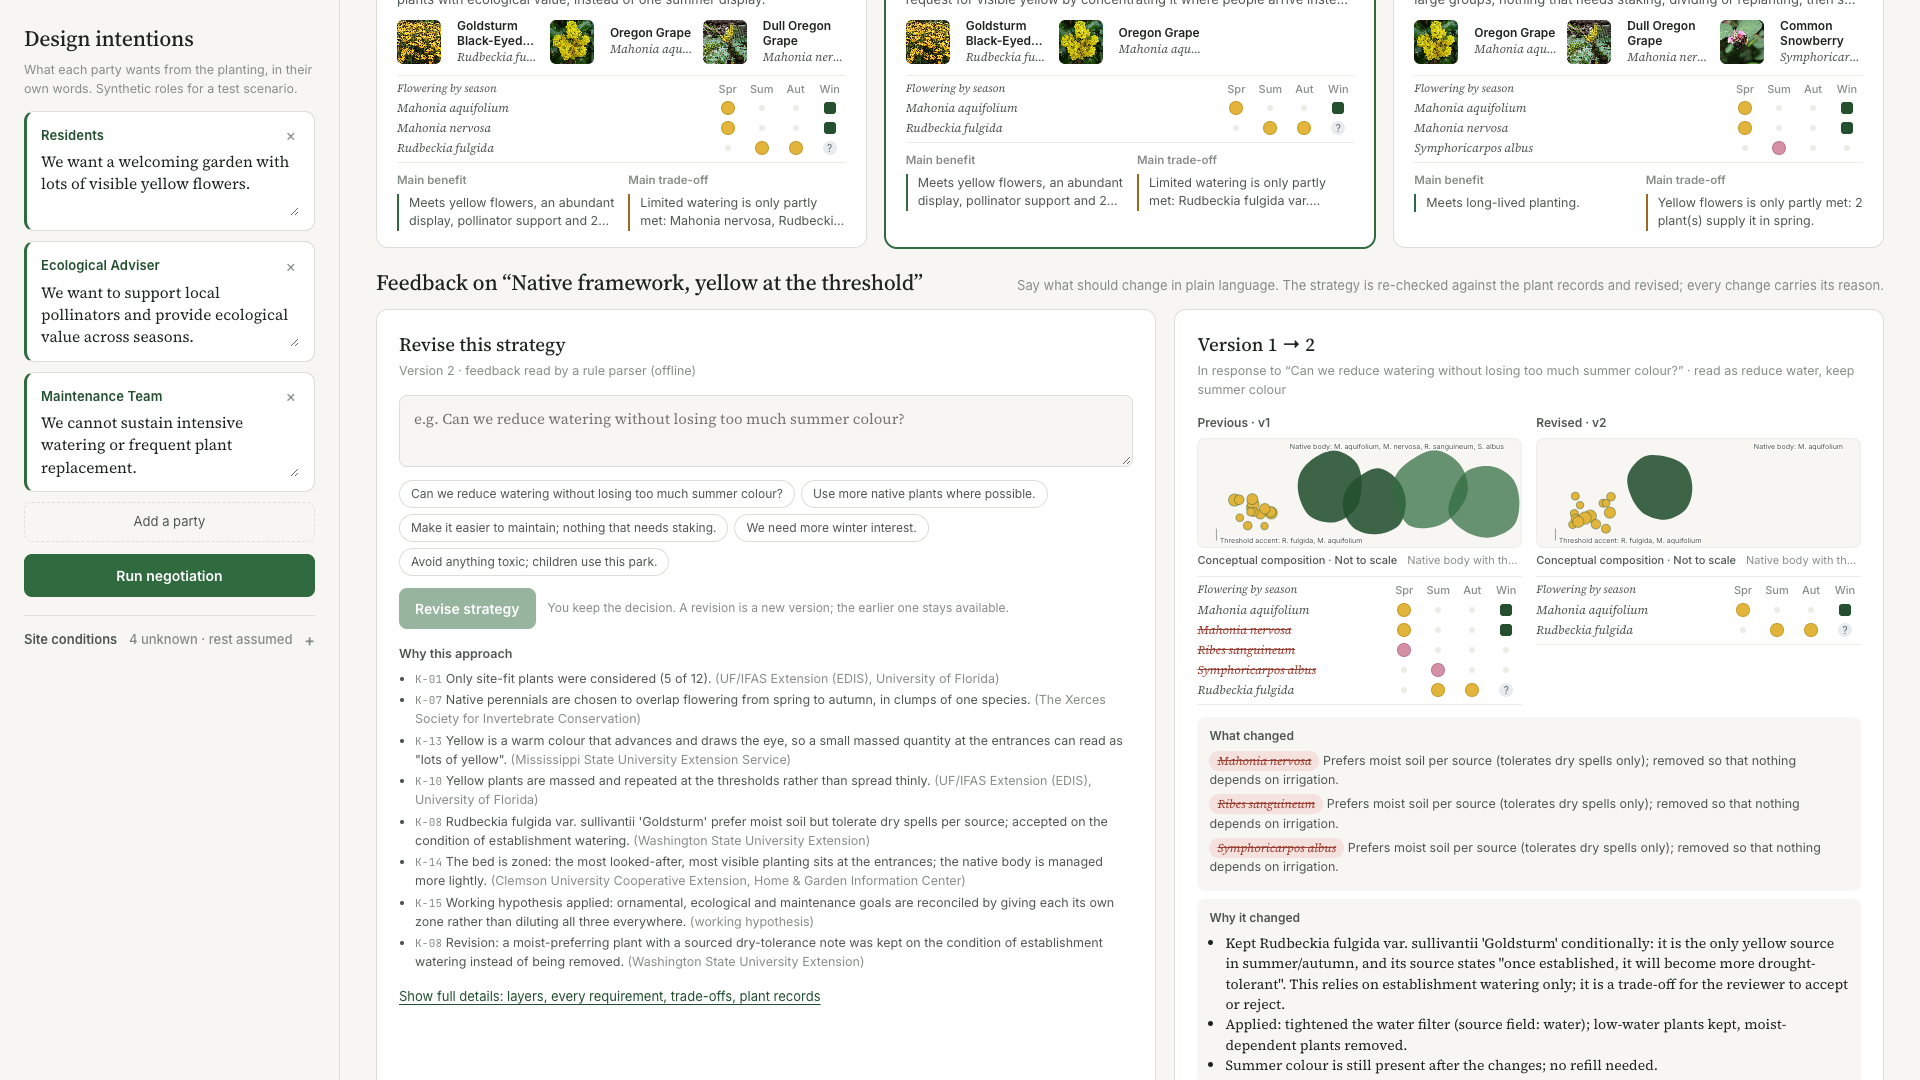
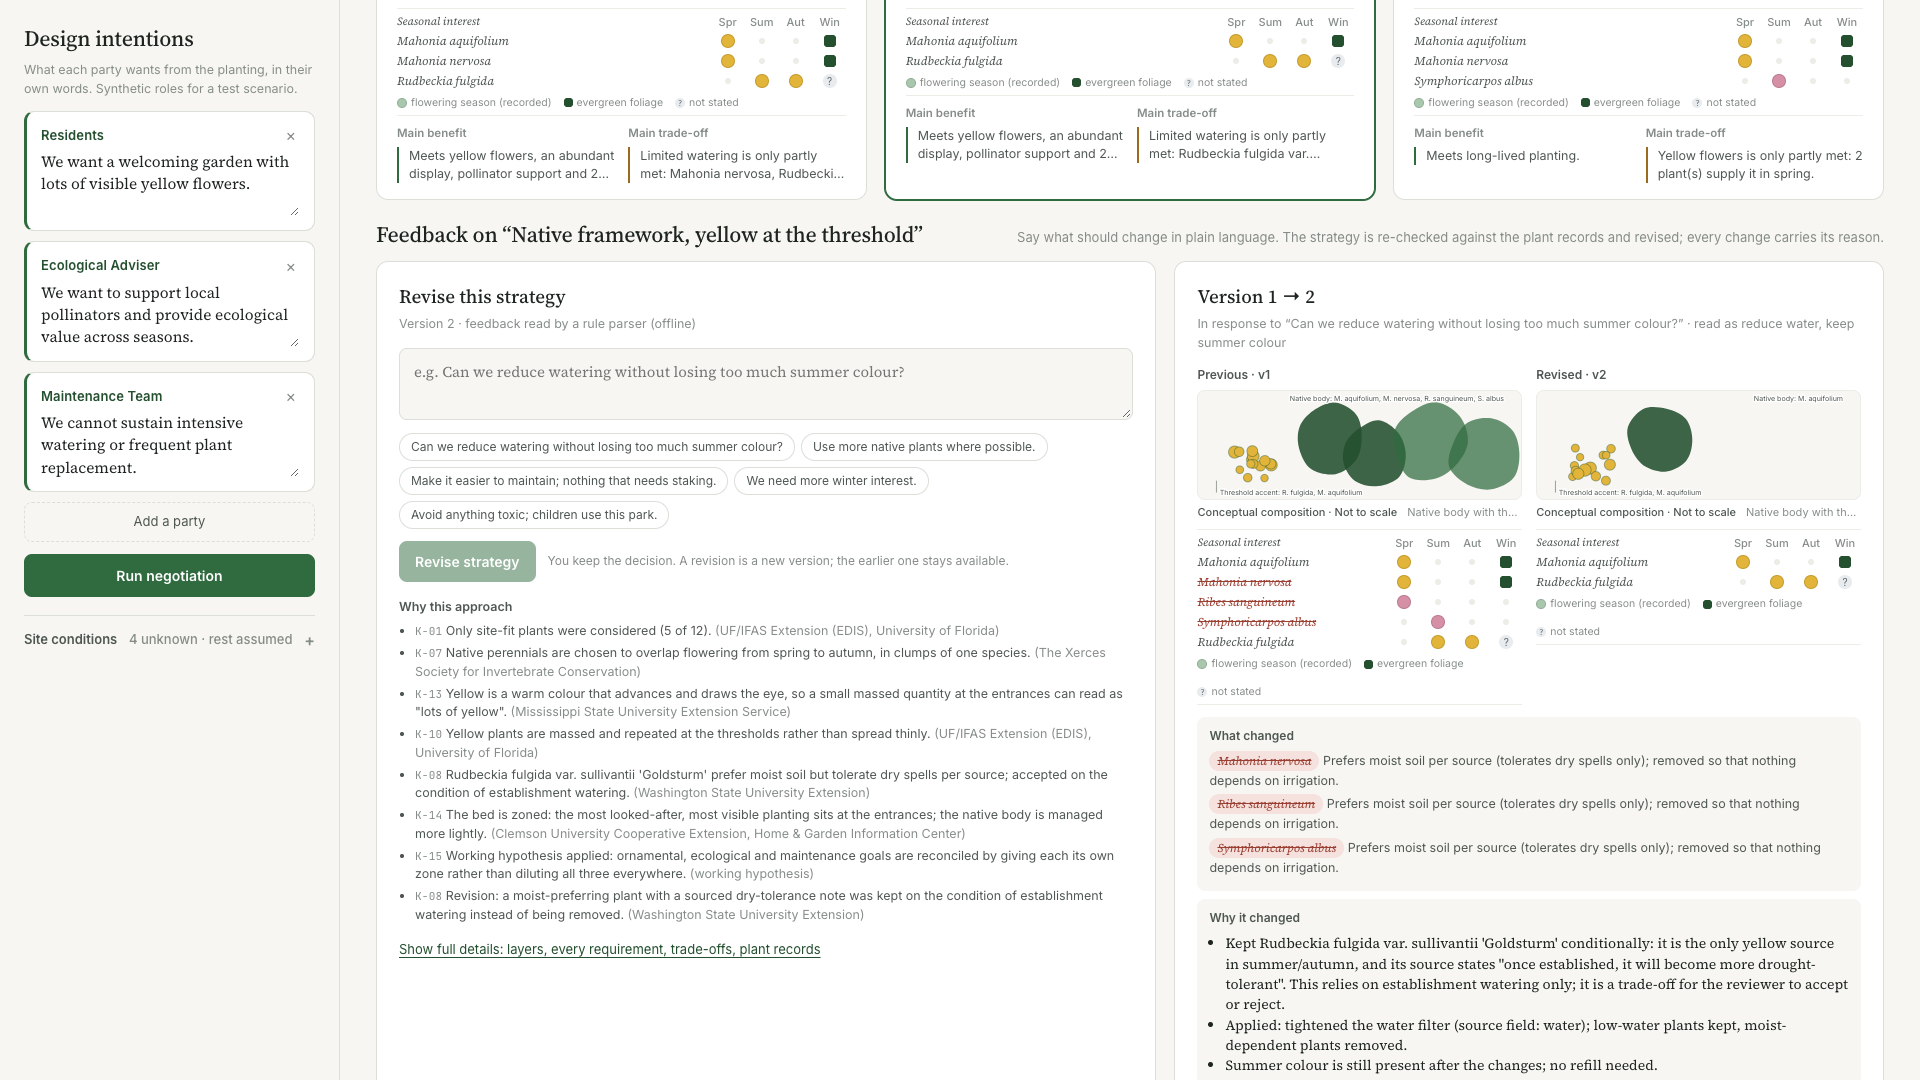
Matrix reads 'Seasonal interest' with a legend; capture the full strategies section
The winter column marks evergreen foliage, not flowering, so the matrix
title and a small legend now say so. The strategies screenshot is taken
as a region of the section so all three cards appear complete.

diff --git a/src/components/plants.tsx b/src/components/plants.tsx
@@ -28,8 +28,8 @@ export function thumbColour(p: PlantRecord): string | null {
   return HEX[Object.keys(HEX).find((k) => c.includes(k))!];
 }
 
-// Seasonal flowering matrix: only the seasons the sources record. Winter shows evergreen
-// foliage, not flowering. Unknown seasons are shown as unknown, not left blank.
+// Seasonal interest matrix: dots mark the flowering seasons the sources record; a square marks
+// evergreen foliage (structure, not flowers); "?" marks a value the source does not state.
 const COLS: { key: "spring" | "summer" | "autumn" | "winter"; label: string }[] = [
   { key: "spring", label: "Spr" },
   { key: "summer", label: "Sum" },
@@ -40,10 +40,10 @@ const COLS: { key: "spring" | "summer" | "autumn" | "winter"; label: string }[] 
 export function SeasonMatrix({ plantIds, highlight, extra = 0, removed }: { plantIds: string[]; highlight?: Set<string>; extra?: number; removed?: Set<string> }) {
   const plants = plantIds.map((id) => plantById(id)).filter(Boolean) as PlantRecord[];
   return (
-    <div className="matrix" role="table" aria-label="Flowering seasons recorded in sources">
+    <div className="matrix" role="table" aria-label="Seasonal interest recorded in sources">
       <div className="mrow mhead" role="row">
         <span className="mname" role="columnheader">
-          Flowering by season
+          Seasonal interest
         </span>
         {COLS.map((c) => (
           <span key={c.key} className="mcell" role="columnheader">
@@ -79,7 +79,18 @@ export function SeasonMatrix({ plantIds, highlight, extra = 0, removed }: { plan
           </div>
         );
       })}
-      {extra > 0 && <div className="mmore">{extra} more plant{extra > 1 ? "s" : ""} in details</div>}
+      <div className="mlegend" aria-hidden="true">
+        <span>
+          <i className="mark on" style={{ background: "var(--green-mid)" }} /> flowering season (recorded)
+        </span>
+        <span>
+          <i className="mark ever" /> evergreen foliage
+        </span>
+        <span>
+          <i className="mark unk">?</i> not stated
+        </span>
+        {extra > 0 && <span className="mmore">{extra} more in details</span>}
+      </div>
     </div>
   );
 }

diff --git a/src/styles.css b/src/styles.css
@@ -240,7 +240,12 @@ details.inline summary { cursor: pointer; font-size: 12.5px; color: var(--green-
 .mark.unk { font-style: normal; font-size: 10px; color: var(--slate); background: var(--slate-soft); line-height: 14px; text-align: center; }
 .mremoved .mname { text-decoration: line-through; color: var(--red); }
 .madded .mname { color: var(--green-deep); font-weight: 600; }
-.mmore { font-size: 11px; color: var(--ink-3); padding: 3px 0 0; }
+.mmore { font-size: 11px; color: var(--ink-3); }
+.mlegend { display: flex; gap: 12px; flex-wrap: wrap; align-items: center; font-size: 10.5px; color: var(--ink-3); padding: 4px 0 0; }
+.mlegend span { display: inline-flex; align-items: center; gap: 4px; }
+.mlegend .mark { width: 10px; height: 10px; }
+.mlegend .mark.ever { width: 9px; height: 9px; }
+.mlegend .mark.unk { font-size: 8px; line-height: 10px; }
 
 .card .kv .benefit { font-size: 12.5px; color: var(--ink-2); line-height: 1.45; border-left: 2px solid var(--green); padding-left: 10px; display: -webkit-box; -webkit-line-clamp: 2; -webkit-box-orient: vertical; overflow: hidden; }
 .card .kv .tradeoff { -webkit-line-clamp: 2; }

diff --git a/README.md b/README.md
@@ -89,7 +89,7 @@ The interface is meant to read as a contemporary landscape-design workspace rath
 Decisions and where they came from:
 - **Conceptual composition diagrams** (`src/components/ConceptDiagram.tsx`) use three drawing languages so the strategies differ at a glance: a left-to-right season relay of flower-coloured drifts in front of a continuous evergreen band (A); a body of overlapping native masses with the colour accent gathered as a cluster of dots at the threshold (B); few large, evenly spaced single-species groups, evergreen solid and deciduous dashed (C). The abstraction level follows concept-stage landscape sketches rather than planting plans: no boundary, no dimensions, no counts, and every drawing is labelled "Conceptual composition · Not to scale". Shapes, colours and labels are generated from the strategy's layers and the records' flower colour, flowering season and evergreen fields, and the diagram redraws when a revision changes the plants.
 - **Plant palette** rows (thumbnail, common name, scientific name) borrow AsterSketch's plant-palette organisation: a compact, consistent block of representative species per scheme rather than a long list. Photographs are licensed Wikimedia Commons images (see `docs/IMAGE-CREDITS.md`); a species without a licensed photo gets a labelled illustration mark, never a stand-in photo.
-- **Seasonal flowering matrix** adapts the Plant Matrix idea of reading seasonality as a grid: rows are plants, columns are the four seasons, a coloured dot marks a season the source records, a square marks evergreen foliage in winter, and "?" marks an unknown season. Nothing is interpolated into months.
+- **Seasonal interest matrix** adapts the Plant Matrix idea of reading seasonality as a grid: rows are plants, columns are the four seasons, a coloured dot marks a flowering season the source records, a square marks evergreen foliage (structure, not flowers), and "?" marks a value the source does not state; a small legend under each matrix states this. Nothing is interpolated into months.
 - **Card structure** follows Milanote-style visual cards and shadcn/ui's restraint: identical section order on every card (diagram, name, approach, palette, matrix, main benefit, main trade-off), subtle borders, one radius, no shadows or gradients.
 - **Negotiation summary** keeps one quiet icon per class (check, triangle, question mark; a cross for knowledge-base limits), two points per column by default, and record ids in small monospace below each sentence so evidence is present but not competing with the conclusion.
 - **Before / after comparison** in the feedback pane shows the previous and revised diagrams and matrices side by side, with removed plants struck through and added plants emphasised, all drawn from the stored revision snapshot.
@@ -171,7 +171,7 @@ Separation of concerns, as required by the brief: the model (or the offline pars
 
 ## Research integrity notes
 - Plant records and principles were compiled by fetching the cited pages; nothing was filled from model memory. Where fetches failed the field is unknown and the README says so.
-- The screenshots in `docs/screenshots/` are real captures of the running application in Offline Demonstration Mode (`01-core-view.png` is the 1920×1080 presentation frame; `03-feedback-revision.png` the before/after revision; `05-layout-1440x900.png` a laptop-viewport check).
+- The screenshots in `docs/screenshots/` are real captures of the running application in Offline Demonstration Mode (`01-core-view.png` is the 1920×1080 presentation frame; `02-strategies.png` the complete strategies section captured as a region; `03-feedback-revision.png` the before/after revision; `05-layout-1440x900.png` a laptop-viewport check).
 - The visual refinement added no data: diagrams, palettes and the season matrix are drawn from the existing plant records and strategy layers; no percentages, scores or inferred flowering months appear anywhere.
 - Stakeholder statements are the synthetic test inputs from the project brief, not East Park consultation records.
 - Whether this process is more valuable than asking a general-purpose chatbot is an open hypothesis for a later comparison study, not a finding of this prototype.
